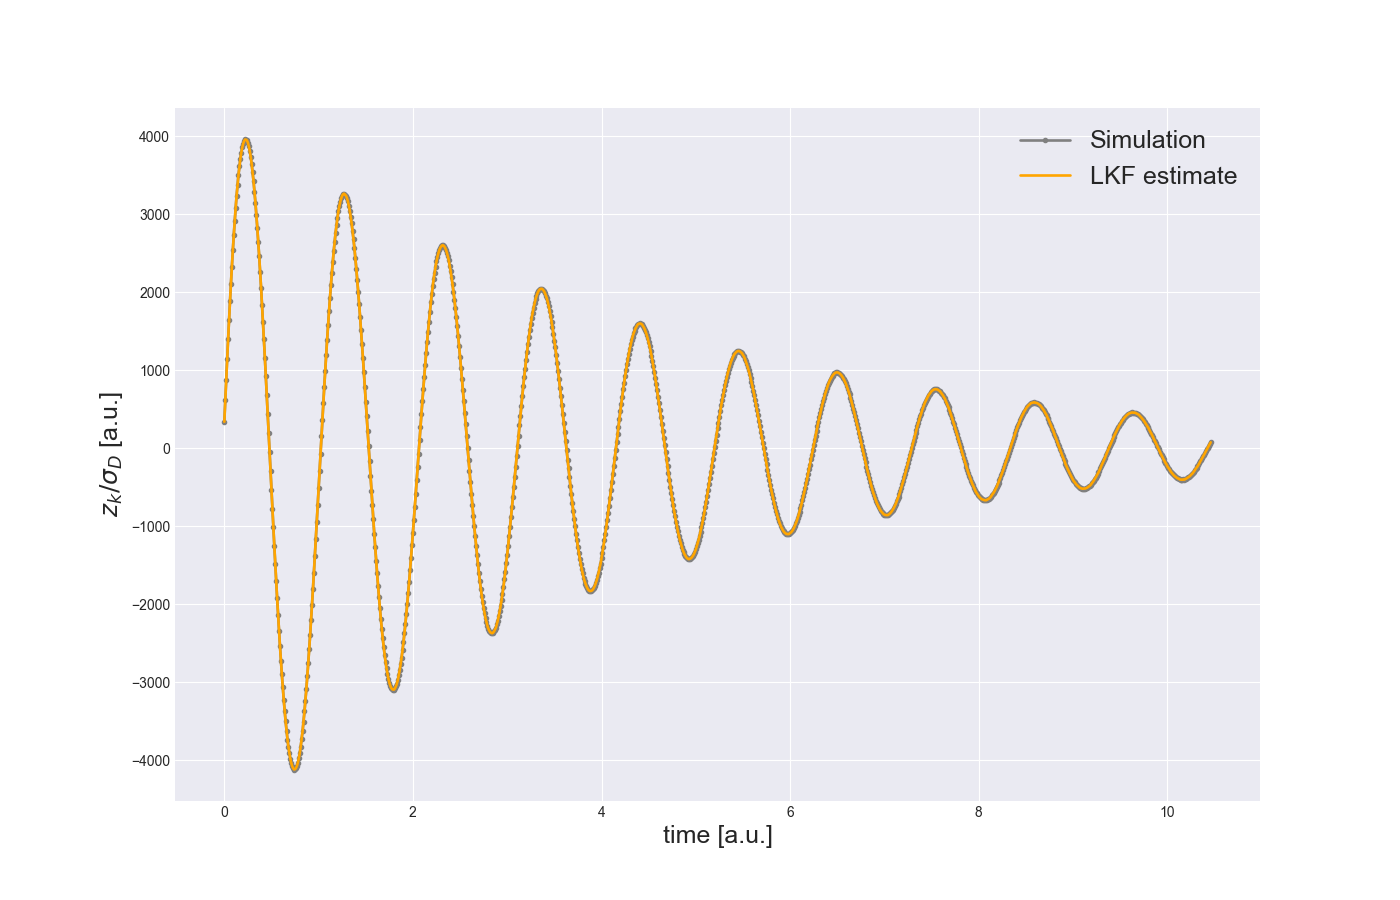
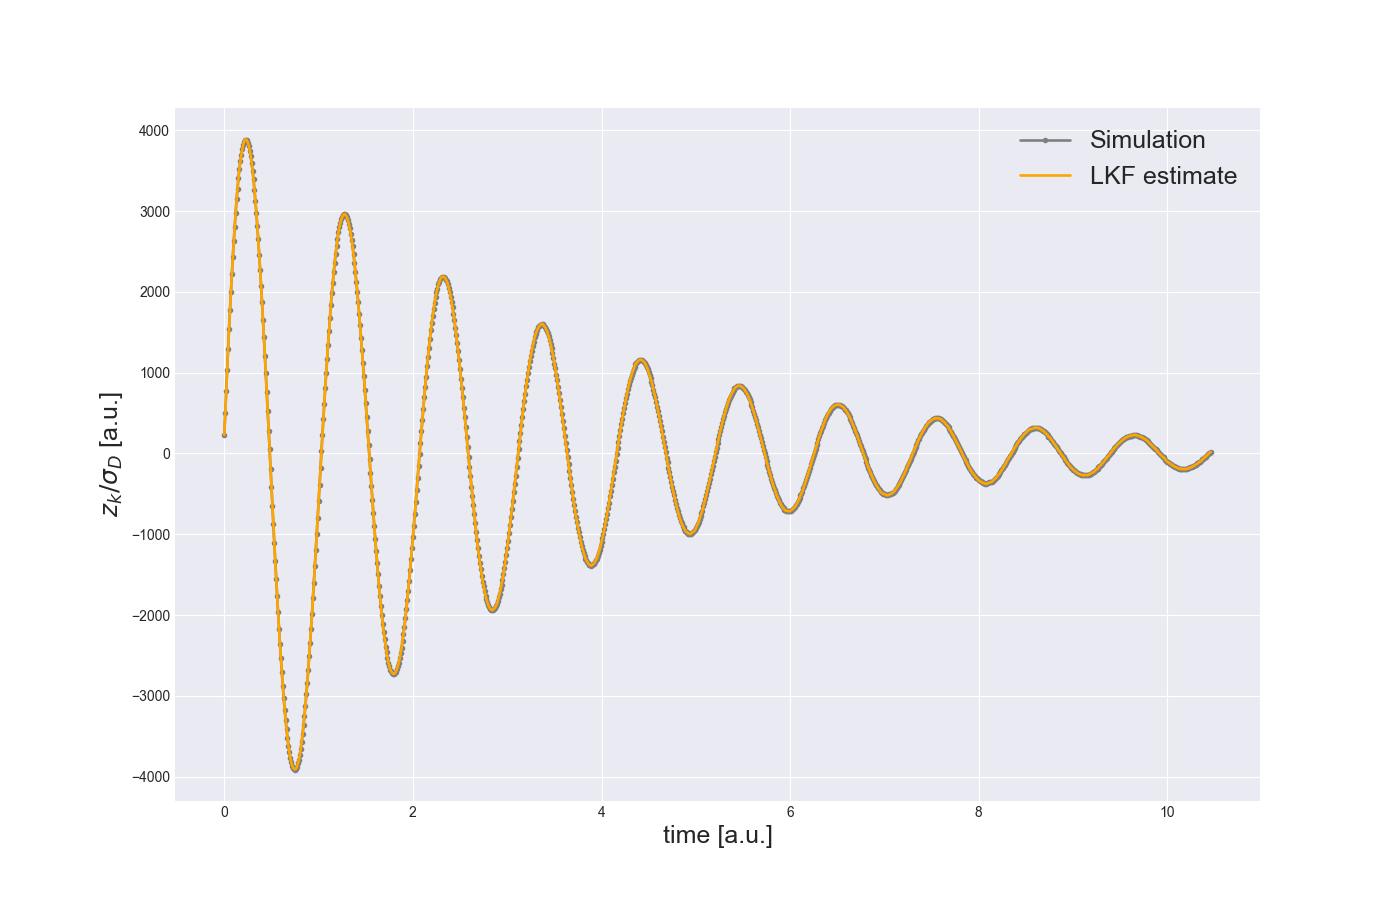
Stronger coupling gp

diff --git a/config.py b/config.py
@@ -10,7 +10,7 @@ config.physical_parameters = {
 
 config.coupling = {
     'omega_p': 6.,
-    'g_p': 10.,
+    'g_p': 150.,
     'phase_shift': 0.
 }
 
